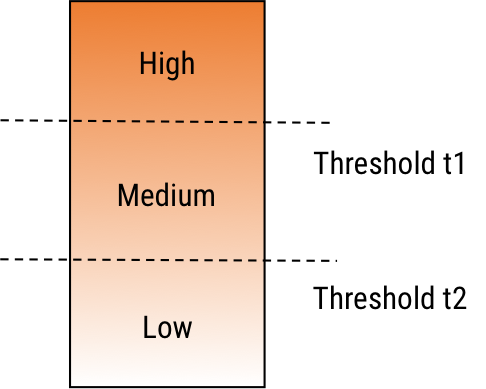
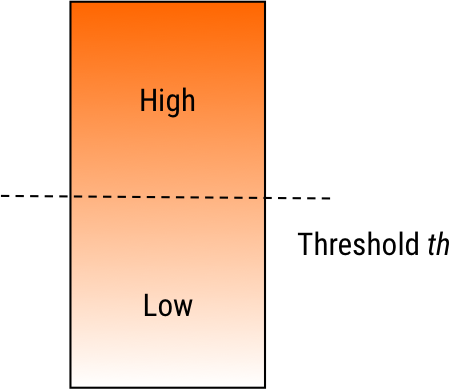
changed to low-high intensity only

diff --git a/Chapter3/approach.tex b/Chapter3/approach.tex
@@ -22,7 +22,7 @@ Apart from the ``hard sensors'' where physical sensors are used, the literature 
 
 Secondly, another finding from the literature review is that the actual behaviour of a crowd depends largely on the emotions of the participants \citep{Kornblum2011, jasper2011emotions}. For that reason, it is essential for a crowd monitoring approach to consider the influence of emotions in the crowd. Although human emotion is an abstract concept and very difficult to measure with ``hard sensors'', it is possible to capture the emotion of a person from the verbal expressions, such as text \citep{alm2005emotions} or speech \citep{sobin1999emotion}. This is where social media further proves its advantage over the ``hard sensors''. By applying analysis on the social media, we can capture the emotions in a crowd, thus enabling the inference of the crowd's condition. For that reason, this project will propose a crowd monitoring framework that employs the emotion analysis of social media to support emergency management in mass gatherings by determining the current type of the crowd. 
 
-Finally, the literature review also reveals another gap in the research that is the limitation of the crowd modelling employed in crowd monitoring approaches. Most existing crowd monitoring techniques do not base on any crowd model which can distinguish between different crowd types and identify the exact crowd type that is happening without the interpretation of human. By exploring broader into other disciplines, our literature review points out several notable works on crowd modelling and classification in the police literature and public safely science. Among those works, \citet{Berlonghi1995}'s work stands out as the most commonly adopted model by the emergency management bureaus worldwide. Our proposed crowd monitoring framework is established on the \citet{Berlonghi1995}'s model which consists of eleven different crowd types. Yet, a systematic approach to classify one crowd into those types is challenging because \citet{Berlonghi1995}'s model only describes the crowd types and there is no attribute or method defined in the existing model to make the distinction between them. Therefore, in our approach, we would like to propose a mapping model that connects the emotion model with the crowd model, enabling the fuzzy classification of crowd type by emotions. The reason fuzzy logic is utilized in our approach is because of its capability of representing multiple truths rather than the absolute true or false like in classical logic. It is difficult to divide people in a mass gathering into very distinct classes using rule-based reasoning since crowd types can be overlapping. Fuzzy logic is able to calculate the degree of membership of each crowd type in a particular crowd and represent the real-time and gradual changes in crowd type.
+Finally, the literature review also reveals another gap in the research that is the limitation of the crowd modelling employed in crowd monitoring approaches. Most existing crowd monitoring techniques do not base on any crowd model which can distinguish between different crowd types and identify the exact crowd type that is happening without the interpretation of human. By exploring broader into other disciplines, our literature review points out several notable works on crowd modelling and classification in the police literature and public safely science. Among those works, \citet{Berlonghi1995}'s work stands out as the most commonly adopted model by the emergency management bureaus worldwide. Our proposed crowd monitoring framework is established on the Berlonghi's model which consists of eleven different crowd types. Yet, a systematic approach to classify one crowd into those types is challenging because Berlonghi's model only describes the crowd types and there is no attribute or method defined in the existing model to make the distinction between them. Therefore, in our approach, we would like to propose a mapping model that connects the emotion model with the crowd model, enabling the fuzzy classification of crowd type by emotions. The reason fuzzy logic is utilized in our approach is because of its capability of representing multiple truths rather than the absolute true or false like in classical logic. It is difficult to divide people in a mass gathering into very distinct classes using rule-based reasoning since crowd types can be overlapping. Fuzzy logic is able to calculate the degree of membership of each crowd type in a particular crowd and represent the real-time and gradual changes in crowd type.
 
 In conclusion, our proposed approach will address the gaps that are identified in the previous chapters by: 
 \begin{inparaenum}[i)]
@@ -120,19 +120,6 @@ The training set, or labelled corpus, is a collection of tweets which are labell
 \subsection{Association Scoring and the Emotional Weight Vector}
 As mentioned in the Association Scoring process, the association of a word with a specific emotion must be measured by a normalised weight. This weight represents the correlation of the word with the emotion and it must be comparable with with other words and other emotions. From the related works, it can be noticed that the SoA score proposed in the NRC Hashtag Emotion Lexicon by \citet{mohammad2014using} is effectively suitable for this purpose. The SoA is calculated from the frequency of a word appearing in the tweets tagged with an emotion.
 
-Therefore, in our Emotion Analysis, the SoA score will be employed as the normalised weight indicating the association of a word with an emotion. The emotional status of a word can be modelled by a four dimensional vector with each dimension represents an emotion of the basic emotions: anger, fear, happiness and sadness. This vector is proposed as the ``emotional weight vector'' as in Formula \ref{eq:emotionalWeightVector} below.
-
-\begin{equation}
-\label{eq:emotionalWeightVector}
-	\vec{v_i}(w_1, w_2, w_3, w_4)
-\end{equation}
-where \(v_i\) is an ``emotional weight vector'' of a word and \(w_{1,2,3,4}\) are four weights that represent its association with the four emotions: anger, fear, happiness and sadness respectively. For example with the word ``crowded'', the SoA scores are taken from the NRC Hashtag Emotion Lexicon as presented in Table \ref{table:soaOfCrowded}. Four scores for anger, fear and joy (happiness) and sadness are extracted and construct the ``emotional weight vector'' of ``crowded'' as in below Formula \ref{eq:emotionalWeightVectorOfCrowded}.
-
-\begin{equation}
-\label{eq:emotionalWeightVectorOfCrowded}
-	\vec{v_{crowded}}(0.0630391396873302, 0.853341316895822, 0, 0)
-\end{equation}
-
 \begin{table}
 \caption{SoA scores of ``crowded'' toward the eight basic emotions (Taken from NRC Hashtag Emotion Lexicon \citep{mohammad2014using})}
 \label{table:soaOfCrowded}
@@ -151,6 +138,19 @@ Surprise & 0 \\ \hline
 \end{tabular}
 \end{table}
 
+Therefore, in our Emotion Analysis, the SoA score will be employed as the normalised weight indicating the association of a word with an emotion. The emotional status of a word can be modelled by a four dimensional vector with each dimension represents an emotion of the basic emotions: anger, fear, happiness and sadness. This vector is proposed as the ``emotional weight vector'' as in Formula \ref{eq:emotionalWeightVector} below.
+
+\begin{equation}
+\label{eq:emotionalWeightVector}
+	\vec{v_i}(w_1, w_2, w_3, w_4)
+\end{equation}
+where \(v_i\) is an ``emotional weight vector'' of a word and \(w_{1,2,3,4}\) are four weights that represent its association with the four emotions: anger, fear, happiness and sadness respectively. For example with the word ``crowded'', the SoA scores are taken from the NRC Hashtag Emotion Lexicon as presented in Table \ref{table:soaOfCrowded}. Four scores for anger, fear and joy (happiness) and sadness are extracted and construct the ``emotional weight vector'' of ``crowded'' as in below Formula \ref{eq:emotionalWeightVectorOfCrowded}.
+
+\begin{equation}
+\label{eq:emotionalWeightVectorOfCrowded}
+	\vec{v_{crowded}}(0.0630391396873302, 0.853341316895822, 0, 0)
+\end{equation}
+
 \subsection{The Voting System and the Dominant Emotion}
 The emotional status of one word can be modelled by a four dimensional ``emotional weight vector''. A tweet can be considered as a set of words, each of which contributes to the overall emotional status of the tweet. Therefore, the emotional status of a tweet can also be represented by a four dimensional vector that is the summative of the ``emotional weight vectors'' of the elemental words (Formula \ref{eq:summativeWeightVector}).
 
@@ -162,43 +162,40 @@ where \(\vec{V}\) is the ``emotional weight vector'' of the tweet, \(\vec{v_i}\)
 
 Although a tweet might be associated with all four emotions, one specific emotion is expected to dominate the whole tweet, which is called the dominant emotion. In order to extract the dominating emotion in a tweet, a voting system to interpret the vectors is proposed as follow. An ``emotional weight vector'' \(\vec{v_i}\) can be considered as a vote cast by one word that indicates how strongly the word agrees with each emotion. Similarly, the summative vector \(\vec{V}\) can be interpreted as the overall result of the voting, which illustrates how close the whole tweet is from each emotion. The dominant emotion can then be determined by the highest vote from the voters. In other words, the emotion dimension with the largest magnitude will be selected as the dominant emotion in the tweet.
 
-\subsection{Distribution of Emotions in a Crowd}
+\subsection{Emotion Distribution in a Crowd}
 As illustrated by Figure \ref{fig:processOverview}, the tweets collected in the first stage of the process provides the context at the raw-level about a crowd in a mass gathering. By performing the emotion analysis, the dominant emotion in each tweet can be extracted. This emotion in fact represents the emotion of an individual in the crowd rather than the crowd as a whole. The relationship between individual emotion and group emotion has been discussed in several researches. \citet{barsade1998group} suggest the top-down approach that the group emotion can arise and felt by individual member, while at the same time, in a bottom-up manner the group emotion can be shaped by the compositional effects of individual emotions. This theory confirms the possibility to represent the crowd emotion as whole from the individuals' emotion.
 
-As people with different emotional states can exist in one crowd, a crowd can have multiple emotion. It can be illustrated by the distribution of the emotions in the crowd. The distribution \(d\) of an emotion \(e_i\) in a crowd at a given time \(t\) can be calculated by below Formula \ref{eq:distributionEmotion}.
+As people with different emotional state exist in one crowd, a crowd can have multiple emotions. It can be represented by the emotion distribution in the crowd. The percentage \(p\) of an emotion \(e_i\) in a crowd at a given period can be calculated by below Formula \ref{eq:distributionEmotion}.
 \begin{equation}
 \label{eq:distributionEmotion}
-	\forall e_i \in \{anger, fear, happiness, sadness\}: d(e_i)_t = \frac{n(e_i)_t}{N_t}
+	p(e_i) = \frac{n(e_i)}{N}
 \end{equation}
-where \(d(e_i)_t\) is the distribution of emotion \(e_i\), \(N_t\) is the total number of data sampled during \(t\) and \(n(e_i)_t\) is the number of data classified with emotion \(e_i\) among \(N_t\).
+where \(p(e_i)\) is the percentage of emotion \(e_i\), \(N\) is the total number of sampling tweets and \(n(e_i)\) is the number of tweets classified with emotion \(e_i\).
 
-This distribution \(d(e_i)\) can have any value from 0 to 1, indicating the how strong the emotion \(e_i\) of the crowd is at specific time period \(t\). This calculation is performed repetitively after an interval which enables us to detect the change of emotional state in the crowd. Hence, the value of \(t\) has influence on the sensitivity of the detection and depends on the sampling rate.
+This percentage \(p(e_i)\) can have any value from 0 to 1, indicating the how strong the emotion \(e_i\) of the crowd during the sampling period. This calculation is performed repetitively after an interval \(t\) which enables us to detect the change of emotional state in the crowd. Therefore, the value of \(t\) has influence on the sensitivity of the detection of changes.
 
 \subsection{Labelling the Level of Density of an Emotion}
-Although the distribution of an emotion in a crowd is able to show the significance of that emotion compared to others, it is not sufficient to tell whether the level of an emotion is normal or not, especially in term of intensity. Hence, such linguistic labels as low, medium and high are defined to identify different level of intensity of an emotion. The intensity increase with the increasing of the level from low to high. There are certain points in the degree of membership that the intensity of an emotion changes from low level to medium level and from medium level to high level (Figure \ref{fig:levelOfDensity}). These two points are defined as threshold \(t_1\) and \(t_2\) respectively. The conversion from numerical values of the distribution of emotion \(e_i\) to a linguistic label can be performed by following rules.
+Although the emotion distribution in a crowd is able to show the relative significance of one emotion compared to each other, it is not sufficient to tell whether a particular emotion is of abnormal behaviour or not. In this case, such linguistic labels as low and high are more useful to describe different levels of intensity of an emotion, where the intensity rises continuously from low to high level. There exists a certain point that the intensity of an emotion is considered to switch from low to high level (Figure \ref{fig:levelOfDensity}). This point is defined as threshold \(th\), which represents the expected rate of an emotion under normal behaviour. The level of intensity of an emotion can be labelled by comparing the measured percentage of that emotion to the threshold.
+
 \begin{equation}
-\label{eq:lowDensityEmotion}
-d(e_i) \leq t_1(e_i) \Rightarrow label = low
+\label{eq:lowIntensity}
+	p(e_i) < th(e_i) \Rightarrow lv(e_i) = low
 \end{equation}
 
 \begin{equation}
-\label{eq:mediumDensityEmotion}
-d(e_i) > t_1(e_i) \land d(e_i) < t_2(e_i) \Rightarrow label = medium
+\label{eq:highIntensity}
+	p(e_i) > th(e_i) \Rightarrow lv(e_i) = high
 \end{equation}
-
-\begin{equation}
-\label{eq:highDensityEmotion}
-d(e_i) \geq t_2(e_i) \Rightarrow label = high
-\end{equation}
+where, \(p(e_i)\) is the percentage of emotion \(e_i\) in the emotion distribution and \(lv(e_i)\) is the labelled level of intensity of \(e_i\).
 
 \begin{figure}[htb!] 
 \centering    
 \includegraphics[width=0.3\textwidth]{LevelOfEmotion}
-\caption{Level of density of an emotion and thresholds}
+\caption{Level of density of an emotion and the threshold}
 \label{fig:levelOfDensity}
 \end{figure}
 
-The thresholds are important to detect the abnormal increasing in one particular emotion, yet they are application specific. Firstly, because as their normal behaviour, people tend to post an unequal number of tweets for each emotion, the thresholds can be not the same for different emotions. For instance, happy tweets appear more frequently than angry tweets. Secondly, because of the cultural difference, the content shared on Twitter is very different across different countries and cultures. People in one country might normally post more happy content than people living in a problematic region. Moreover, even among the group of users, emotional content can also vary during different period. For example, people tend to tweet more happy content than usual around Christmas and New Year holiday. Therefore, the choice of the two thresholds for one emotion, such as happy, actually depend on the region and time. In our experiment, we propose an approach to calculate the thresholds using the dataset that is collected in a specific event.
+The threshold is important to detect the abnormal rise in an emotion, however it is application specific. Firstly, because under the normal behaviour, people tend to post an unequal number of tweets for each emotion, the thresholds can be not the same for different emotions. NRC Hashtag Emotion Corpus \citep{mohammad2014using} indicates the percentage of joyful tweet is much higher than other emotions. Secondly, because of the cultural and regional difference, the content shared on Twitter is very different across different countries and cultures. For example, people in one country might normally post more happy content than in another country. Finally, even among the same group of users, emotional content can also vary during different time period. For example, people might tweet more happy content than usual around Christmas and New Year holiday. Therefore, the value of threshold \(t\) for one emotion, such as happy is dependent on the region and the time of the event. In our experiment, we propose a simple approach to determine the threshold using a dataset collected in a specific event.
 
 \section{Crowd Model}
 
@@ -229,24 +226,15 @@ Our mapping is based on several significant studies on human emotion. One of the
 \centering
 \begin{tabular}{|p{2.5cm}|p{2.3cm}|p{2.3cm}|p{2.3cm}|p{3.5cm}|}
 \hline
-\textbf{Stimulus events} & \textbf{Coginition} & \textbf{Emotion} & \textbf{Behaviour} & \textbf{Effect} \\
-\hline
-Threat & Danger & Fear & Escape & Safety \\
-\hline
-Obstacle & Enemy & Anger & Attack & Destroy obstacle \\
-\hline
-Gain of valued object & Possess & Joy & Retain or repeat & Gain resources or new genes \\
-\hline
-Loss of valued object & Abandonment & Sadness & Cry & Reattach with lost object \\
-\hline
-Member of a group & Friend & Acceptance (Trust) & Groom & Mutual support \\
-\hline
-Unpalatable object & Poison & Disgust & Vomit & Eject poison \\
-\hline
-New territory & Examine & Expectation & Map & Knowledge of territory \\
-\hline
-Unexpected event & What is it & Surprise & Stop & Gain time to orient \\
-\hline
+\textbf{Stimulus events} & \textbf{Coginition} & \textbf{Emotion} & \textbf{Behaviour} & \textbf{Effect} \\ \hline \hline
+Threat & Danger & Fear & Escape & Safety \\ \hline
+Obstacle & Enemy & Anger & Attack & Destroy obstacle \\ \hline
+Gain of valued object & Possess & Joy & Retain or repeat & Gain resources or new genes \\ \hline
+Loss of valued object & Abandonment & Sadness & Cry & Reattach with lost object \\ \hline
+Member of a group & Friend & Acceptance (Trust) & Groom & Mutual support \\ \hline
+Unpalatable object & Poison & Disgust & Vomit & Eject poison \\ \hline
+New territory & Examine & Expectation & Map & Knowledge of territory \\ \hline
+Unexpected event & What is it & Surprise & Stop & Gain time to orient \\ \hline
 \end{tabular}
 \end{table}
 
@@ -258,28 +246,19 @@ In one of his works, \citet{plutchik2001integration} has also summarised the rel
 \centering
 \begin{tabular}{|p{3cm}|p{3cm}|p{3cm}|p{3cm}|}
 \hline
-\textbf{Emotion} & \textbf{Behaviour language} & \textbf{Functional language} & \textbf{Trait language} \\
-\hline
-Fear & Escape & Protection & Timid \\
-\hline
-Anger & Attack & Destruction & Quarrelsome \\
-\hline
-Joy & Mate & Reproduction & Sociable \\
-\hline
-Sadness & Cry & Reattachment & Gloomy \\
-\hline
-Acceptance (Trust) & Groom & Incorporation & Trusting \\
-\hline
-Disgust & Vomit & Rejection & Hostile \\
-\hline
-Expectation & Map & Exploration & Demanding \\
-\hline
-Surprise & Stop & Orientation & Indecisive \\
-\hline
+\textbf{Emotion} & \textbf{Behaviour language} & \textbf{Functional language} & \textbf{Trait language} \\ \hline \hline
+Fear & Escape & Protection & Timid \\ \hline
+Anger & Attack & Destruction & Quarrelsome \\ \hline
+Joy & Mate & Reproduction & Sociable \\ \hline
+Sadness & Cry & Reattachment & Gloomy \\ \hline
+Acceptance (Trust) & Groom & Incorporation & Trusting \\ \hline
+Disgust & Vomit & Rejection & Hostile \\ \hline
+Expectation & Map & Exploration & Demanding \\ \hline
+Surprise & Stop & Orientation & Indecisive \\ \hline
 \end{tabular}
 \end{table}
 
-Regarding the emotional language, another notable work that plays an important role in our construction of the mapping is from \citet{russell1980circumplex}. In this study, 28 emotional works are placed into a two dimensional space based on their degree of arousal and pleasure (see Figure \ref{fig:emotionSpace}). These affective words include \textit{angry}, \textit{afraid}, \textit{happy} and \textit{sad} which are used to refer the four basic emotions: \textit{anger}, \textit{fear}, \textit{happiness}, \textit{sadness} respectively. From this map, the relative position of a word from the four basic emotions can be observed.
+Regarding the emotional language, another notable work that plays an important role in our construction of the mapping is from \citet{russell1980circumplex}. In this study, 28 emotional works are placed into a two dimensional space based on their degree of arousal and pleasure (see Figure \ref{fig:emotionSpace}). These affective words include \textit{angry}, \textit{afraid}, \textit{happy} and \textit{sad} which are used to refer the four basic emotions: \textit{anger}, \textit{fear}, \textit{happiness} and \textit{sadness} respectively. From this map, the relative position of a word from the four basic emotions can be observed.
 
 \begin{figure}[htb!] 
 \centering    
@@ -288,19 +267,29 @@ Regarding the emotional language, another notable work that plays an important r
 \label{fig:emotionSpace}
 \end{figure}
 
-In order to construct the emotion - crowd type mapping, a comprehensive understanding of the behaviour of each crowd type is needed. The description of the each crowd type by \citet{Berlonghi1995} is analysed together with the definition of similar crowd types defined by other scholars. The behaviour language and trait language from those descriptions are extracted and referenced to the four emotions: fear, anger, happiness, sadness. The objective of this process is to identify the dominant emotions in each crowd type. 
+In order to construct the emotion - crowd type mapping, a comprehensive understanding of the behaviour of each crowd type is needed. The description of the each crowd type by \citet{Berlonghi1995} is analysed together with the definition of similar crowd types defined by other scholars. The behaviour language and trait language from those descriptions are extracted and referenced to the four emotions: \textit{anger}, \textit{text}, \text{happiness} and \textit{sadness}. The objective of this process is to identify the possible dominant emotions in each crowd type. 
 
 \begin{itemize}
 \item \textbf{Ambulatory crowd} - is characterised by the action walking and the calmness \citep{Zeitz2009}. According to \citet{russell1980circumplex}'s emotion space, \textit{calm} is located in a completely opposite region with \textit{angry} and \textit{afraid}. Although both \textit{calm} and \textit{sad} have negative level of arousal, the former has a positive degree of pleasure while the latter does not. Therefore, none of the four emotions are dominating in this crowd type.
+
 \item \textbf{Disablity/Limited movement crowd} - is described by the immobility of the crowd. Similarly to the ambulatory crowd, this characteristic does not suggest any significant emotion. Hence, no emotion is considered to be the dominant emotion in this crowd type.
+
 \item \textbf{Cohesive/Spectator} - is described by the activity watching a specific event and the fact that people have the interest in watching the event. Similarly, they do not signal the dominant occurrence of any emotion.
-\item \textbf{Expressive/Revellous crowd} - is characterised by the emotional release. According to the Webster's Revised Unabridged Dictionary \footnote{http://www.thefreedictionary.com/revelous}, the word \textit{revelous} originates from ``revel'' which means ``to take great pleasure or delight'' \footnote{http://www.thefreedictionary.com/reveling}. \textit{Delighted} lies in a high level of arousal with a positive pleasure in the \citet{russell1980circumplex}'s emotion space (Figure \ref{fig:emotionSpace}), which is close to \textit{happy}. Therefore, it can be inferred that this crowd type has a high intensity of \textit{happiness} as the dominant emotion.
-\item \textbf{Participatory crowd} - is described by the action participating in a specific event. Although, the description does not suggest any clue on the emotional state of the participants, one example for a participatory crowd is people taking part in an actual sport event. Regarding sport psychology, studies show that sensation seeking and arousal seeking motivate the participations in sports, especially risk involved sports \citep{rowland1986sensation}. This indicates a positive level of arousal that can be observed from a participatory crowd, thus suggesting \textit{happiness} as the dominating emotion as well. Compared to expressive crowd, the intensity of \textit{happiness} can be lower.
-\item \textbf{Aggressive/Hostile crowd} - is described by the verbal aggressiveness and disregard for instruction. \textit{Aggressiveness} is aroused by \textit{anger}. The \textit{aggressiveness} is limited by verbal expression, which hints that the intensity of \textit{anger} is at medium level.
-\item \textbf{Demonstrator} - includes such actions as picketing, marching, protesting. According to Lofland's typology of spontaneous collective behaviours \citep{Kornblum2011}, such crowds are classified into \textit{hostile} crowd aroused by \textit{anger}. This crowd type is described to have some degree of organisation and leadership, which suggests the level of \textit{aggressiveness} is not intensive. Therefore, a low level of \textit{anger} can be considered to be the dominant emotion in this crowd type.
-\item \textbf{Escaping/Trampling crowd} - is described by the escaping action from a danger or a threat. This \textit{escaping} behaviour is triggered by \textit{fear} according to Plutchik's evolutionary theory. Loftland's typology also classifies such crowd under the fearful crowd \cite{Kornblum2011}. Hence, the dominating emotion can be identified in this crowd type is clearly a high intensity of \textit{fear}.
-\item \textbf{Dense/Suffocating crowd} - is characterised by the extremely high density and inability of movement in the crowd. Recent research on brain claims that suffocation might cause fear as the experiments with mice shows that inhaled carbon dioxide reduces brain pH and evokes fear behaviour \citep{ziemann2009amygdala}.
+
+\item \textbf{Expressive/Revellous crowd} - is characterised by the emotional release. According to the Webster's Revised Unabridged Dictionary \footnote{http://www.thefreedictionary.com/revelous}, the word \textit{revelous} originates from ``revel'' which means ``to take great pleasure or delight'' \footnote{http://www.thefreedictionary.com/reveling}. \textit{Delighted} lies in a high level of arousal with a positive pleasure in the \citet{russell1980circumplex}'s emotion space (Figure \ref{fig:emotionSpace}), which is close to \textit{happy}. Therefore, it can be inferred that this crowd type has a high level of \textit{happiness} as the dominant emotion.
+
+\item \textbf{Participatory crowd} - is described by the action participating in a specific event. Although, the description does not suggest any clue on the emotional state of the participants, one example for a participatory crowd is people taking part in an actual sport event. Regarding sport psychology, studies show that sensation seeking and arousal seeking motivate the participations in sports, especially risk involved sports \citep{rowland1986sensation}. This indicates a high level of arousal that can be observed from a participatory crowd, thus suggesting \textit{happiness} as the dominating emotion as well.
+
+\item \textbf{Aggressive/Hostile crowd} - is described by the verbal aggressiveness and disregard for instruction. \textit{Aggressiveness} is aroused by \textit{anger}.
+
+\item \textbf{Demonstrator} - includes such actions as picketing, marching, protesting. According to Lofland's typology of spontaneous collective behaviours \citep{Kornblum2011}, such crowds are classified into \textit{hostile} crowd aroused by \textit{anger}.
+
+\item \textbf{Escaping/Trampling crowd} - is described by the escaping action from a danger or a threat. This \textit{escaping} behaviour is triggered by \textit{fear} according to Plutchik's evolutionary theory. Loftland's typology also classifies such crowd under the fearful crowd \cite{Kornblum2011}. Hence, the dominating emotion can be identified in this crowd type is a high intensity of \textit{fear}.
+
+\item \textbf{Dense/Suffocating crowd} - is characterised by the extremely high density and inability of movement in the crowd. Recent research on brain claims that suffocation might cause \textit{fear} as the experiments with mice shows that inhaled carbon dioxide reduces brain pH and evokes fear behaviour \citep{ziemann2009amygdala}.
+
 \item \textbf{Rushing/Looting crowd} - is described by the desire to acquire something. Studying the looting behaviour in London riot in 2011, \citet{ray2014shame} suggests the shame theory of violence which might has relevance in accounting for the violent disturbance. \textit{Shame} falls into the region with low arousal and negative pleasure together with the basic emotion \textit{sad}, which indicates the closeness of the two affective words. On the other hand, violence is aroused by \textit{anger}, hence a mixture of \textit{anger} and \textit{sadness} can be considered the dominating emotions in a looting crowd.
+
 \item \textbf{Violent crowd} - is described by the attacking, terrorising and rioting action with the complete disregard for laws and other people. Attacking is a typical behaviour triggered by \textit{anger}. This crowd type has a high level of \textit{anger}.
 \end{itemize}
 
@@ -309,7 +298,7 @@ As we can notice from above analysis, five distinct groups of crowd types can be
 \begin{itemize}
 \item The first group consists of ambulatory, disability/limited movement and cohesive/spectator crowd, which suggest no dominant emotion. From the emergency management point of view, those three types do not pose potential danger. Therefore, in our crowd monitoring framework, the three crowd types will be grouped and monitored as a same type. As mentioned earlier, if data from accelerometer on participants' mobile devices can be acquired, the activities of participants in the crowd can be inferred using activity recognition technique. In term of the type of activity, an ambulatory crowd involves mostly walking, while a crowd of spectators or limited movement crowd will be more stationary with such actions as sitting or standing.
 
-\item The second group is characterised by \textit{happiness}. Expressive/revellous and participatory crowd belong to this group. The difference between an expressive and a participatory crowd is the level of happiness which is high in the former crowd and medium in the latter crowd type. Similarly, to further distinguish between these two crowd types, using accelerometer and activity recognition to infer the activities of the participants might be a possible solution. If the activities involve lots of movement such as running and walking, the crowd can be identified as a participatory crowd.
+\item The second group is characterised by \textit{happiness}. Expressive/revellous and participatory crowd belong to this group. To further distinguish between these two crowd types, using accelerometer and activity recognition to infer the activities of the participants might be a possible solution. If the activities involve lots of movement such as running and walking, the crowd can be identified as a participatory crowd.
 
 \item The third group is aroused by \textit{anger} and includes demonstrator, aggressive/hostile and violent crowd with the increasing level of anger. Activity recognition can also be used to give additional knowledge. A violent crowd involves activities that have a higher level of motion such as running and walking, while a demonstrator crowd might have a slower pace of movement.
 
@@ -323,40 +312,84 @@ As we can notice from above analysis, five distinct groups of crowd types can be
 \label{table:mappingEmotionCrowdType}
 \begin{tabular}{|p{1.4cm}|p{5.1cm}|p{1.6cm}|p{1.5cm}|p{1.9cm}|p{1.6cm}|}
 \hline
-\textbf{Group} & \textbf{Crowd type} & \textbf{Anger} & \textbf{Fear} & \textbf{Happiness} & \textbf{Sadness} \\
-\hline
-\multirow{3}{\linewidth}{Group 1} & Ambulatory & & & & \\
-\cline{2-6}
-& Disability / Limited movement & & & & \\
-\cline{2-6}
-& Cohesive / Spectator & & & & \\
-\hline
-\multirow{2}{\linewidth}{Group 2} & Expressive / Revellous & & & high & \\
-\cline{2-6}
-& Participatory & & & medium & \\
-\hline
-\multirow{3}{\linewidth}{Group 3} & Aggressive / Hostile & medium & & & \\
-\cline{2-6}
-& Demonstrator & low &  &  & \\
-\cline{2-6}
-& Violent & high & & & \\
-\hline
-\multirow{2}{\linewidth}{Group 4} & Escaping / Trampling & & high & & \\
-\cline{2-6}
-& Dense / Suffocating & & high & & \\
-\hline
-Group 5 & Rushing / Looting & medium & & & medium \\
-\hline
+\textbf{Group} & \textbf{Crowd type} & \textbf{Anger} & \textbf{Fear} & \textbf{Happiness} & \textbf{Sadness} \\ \hline \hline
+\multirow{3}{\linewidth}{Group 1} & Ambulatory & & & & \\ \cline{2-6}
+& Disability / Limited movement & & & & \\ \cline{2-6}
+& Cohesive / Spectator & & & & \\ \hline
+\multirow{2}{\linewidth}{Group 2} & Expressive / Revellous & & & high & \\ \cline{2-6}
+& Participatory & & & high & \\ \hline
+\multirow{3}{\linewidth}{Group 3} & Aggressive / Hostile & high & & & \\ \cline{2-6}
+& Demonstrator & low &  &  & \\ \cline{2-6}
+& Violent & high & & & \\ \hline
+\multirow{2}{\linewidth}{Group 4} & Escaping / Trampling & & high & & \\ \cline{2-6}
+& Dense / Suffocating & & high & & \\ \hline
+Group 5 & Rushing / Looting & high & & & high \\ \hline
 \end{tabular}
 \end{table}
 
 \section{Rule Based Reasoning}
 
 \subsection{Rule Repository}
-The Rule Repository contains the rules to identify a crowd type from the inferred emotional state of the crowd.
+\begin{table}
+\caption{Crowd types and their annotations}
+\label{table:crowdTypeAnnotation}
+\centering
+\begin{tabular}{|l|l|}
+\hline
+\textbf{Crowd type} & \textbf{\(c\)} \\ \hline
+Ambulatory crowd & \(c_1\) \\ \hline
+Disablity/Limited movement crowd & \(c_2\) \\ \hline
+Cohesive/Spectator & \(c_3\) \\ \hline
+Expressive/Revellous crowd & \(c_4\) \\ \hline
+Participatory crowd & \(c_5\) \\ \hline
+Aggressive/Hostile crowd & \(c_6\) \\ \hline
+Demonstrator & \(c_7\) \\ \hline
+Escaping/Trampling crowd & \(c_8\) \\ \hline
+Dense/Suffocating crowd & \(c_9\) \\ \hline
+Rushing/Looting crowd & \(c_{10}\) \\ \hline
+Violent crowd & \(c_{11}\) \\ \hline
+\end{tabular}
+\end{table}
+
+\begin{table}
+\caption{Emotions and their annotations}
+\label{table:emotionAnnotation}
+\centering
+\begin{tabular}{|l|l|}
+\hline
+\textbf{Emotion} & \textbf{\(e\)} \\ \hline
+Anger & \(e_1\) \\ \hline
+Fear & \(e_2\) \\ \hline
+Happiness & \(e_3\) \\ \hline
+Sadness & \(e_4\) \\ \hline
+\end{tabular}
+\end{table}
+
+The Rule Repository contains the rules to identify a crowd type or a group of crowd type from the inferred emotional state of the crowd. Let \(c\) be the crowd type which can have values presented in Table \ref{table:crowdTypeAnnotation}. Let \(e\) be the emotion which can have values in Table \ref{table:emotionAnnotation}. The \(lv(e_i)\) is the level of intensity of emotion \(e_i\). The rules are defined as below.
 
 \begin{equation}
-	
+\label{eq:rule1}
+	lv(e_1) \neq high \land lv(e_2) \neq high \land lv(e_3) \neq high \land lv(e_4) \neq high \Rightarrow c = c_1 \lor c = c_2 \lor c = c_3
+\end{equation}
+
+\begin{equation}
+\label{eq:rule2}
+	lv(e_3) = high \Rightarrow c = c_4 \lor c = c_5
+\end{equation}
+
+\begin{equation}
+\label{eq:rule3}
+	lv(e_1) = high \Rightarrow c = c_6 \lor c = c_7 \lor c = c_{11}
+\end{equation}
+
+\begin{equation}
+\label{eq:rule4}
+	lv(e_2) = high \Rightarrow c = c_1 \lor c = c_8 \lor c = c_9
+\end{equation}
+
+\begin{equation}
+\label{eq:rule5}
+	lv(e_2) = high \land lv(e_4) = high \Rightarrow c = c_{10}
 \end{equation}
 
 \subsection{Rule Base Reasoning}
